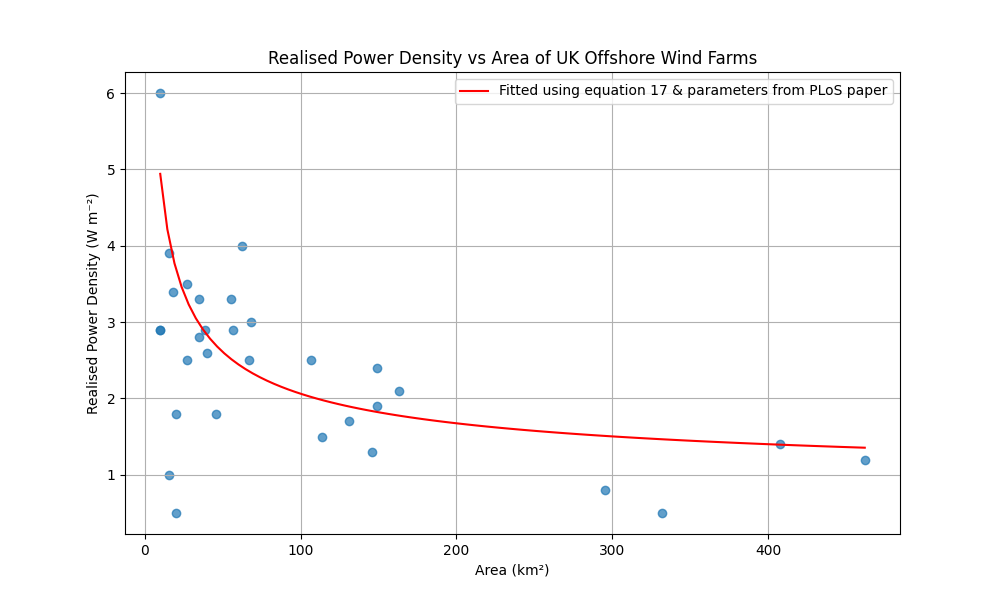
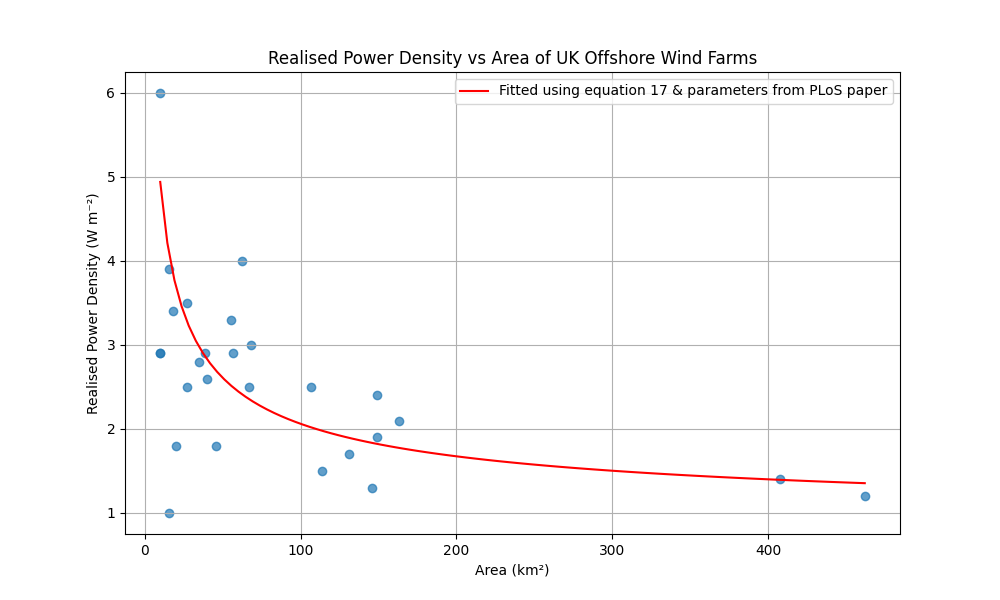
Comment out the 4 wind farms suspected of not running at full capacity

diff --git a/data/wind_farms/process.py b/data/wind_farms/process.py
@@ -22,12 +22,21 @@ class fields:
 
 # Copied from table 1 of https://doi.org/10.1371/journal.pone.0321528
 # which as of 2026-05-18 was hosted at: https://ndownloader.figstatic.com/files/54155111
+#
+# And then commented out the 4 wind farms mentioned in appendix 1 as being
+# suspected of not running at full capacity during the data periods
+#
+#     Four wind farms are excluded from the analysis because it was not possible
+#     to find a period where they were running at full capacity long enough to
+#     estimate a representative capacity factor. These wind farms are Seagreen,
+#     Moray East, Sheringham Shoals and Kincardine. The method of visual
+#     inspection is explained in S1-Appendix.
 data = [
     ["Windfarm", fields.installed, fields.area_km2, fields.cf, fields.period],
     ["HornseaTwo", 1386.0, 462.0, 41.4, "2023 - 2024"],
     ["HornseaOne", 1218.0, 407.3, 46.1, "2021 - 2023"],
-    ["Seagreen", 1075.0, 332.0, 15.6, "2023 - 2024"],
-    ["MorayEast", 950.0, 295.6, 25.3, "2022 - 2024"],
+    # ["Seagreen", 1075.0, 332.0, 15.6, "2023 - 2024"],
+    # ["MorayEast", 950.0, 295.6, 25.3, "2022 - 2024"],
     ["TritonKnoll", 857.0, 149.0, 40.6, "2023 - 2024"],
     ["EastAngliaOne", 714.0, 162.8, 46.9, "2021, 2023"],
     ["WalneyExtension", 659.0, 149.1, 44.3, "2020 - 2023"],
@@ -40,7 +49,7 @@ data = [
     ["Rampion", 400.0, 56.3, 41.1, "2021 - 2023"],
     ["WestOfDuddonSands", 389.0, 67.0, 43.8, "2020 - 2023"],
     ["Galloper", 353.0, 113.7, 47.3, "2021 - 2023"],
-    ["SheringhamShoals", 316.8, 35.0, 36.5, "2022 - 2023"],
+    # ["SheringhamShoals", 316.8, 35.0, 36.5, "2022 - 2023"],
     ["Lincs", 270.0, 38.9, 41.7, "2020 - 2023"],
     ["BurboBankExtension", 254.0, 39.6, 40.1, "2020 - 2023"],
     ["HumberGateway", 219.0, 27.0, 42.6, "2020 - 2023"],
@@ -53,7 +62,7 @@ data = [
     ["Aberdeen", 96.8, 20.0, 36.8, "2020"],
     ["BurboBank", 90.0, 10.0, 31.8, "2020 - 2023"],
     ["Barrow", 90.0, 10.0, 31.7, "2021 - 2022"],
-    ["Kincardine", 50.0, 20.0, 19.3, "2020 - 2023"],
+    # ["Kincardine", 50.0, 20.0, 19.3, "2020 - 2023"],
     ["HywindScotland", 30.0, 15.4, 50.8, "2020 - 2023"],
 ]
 
